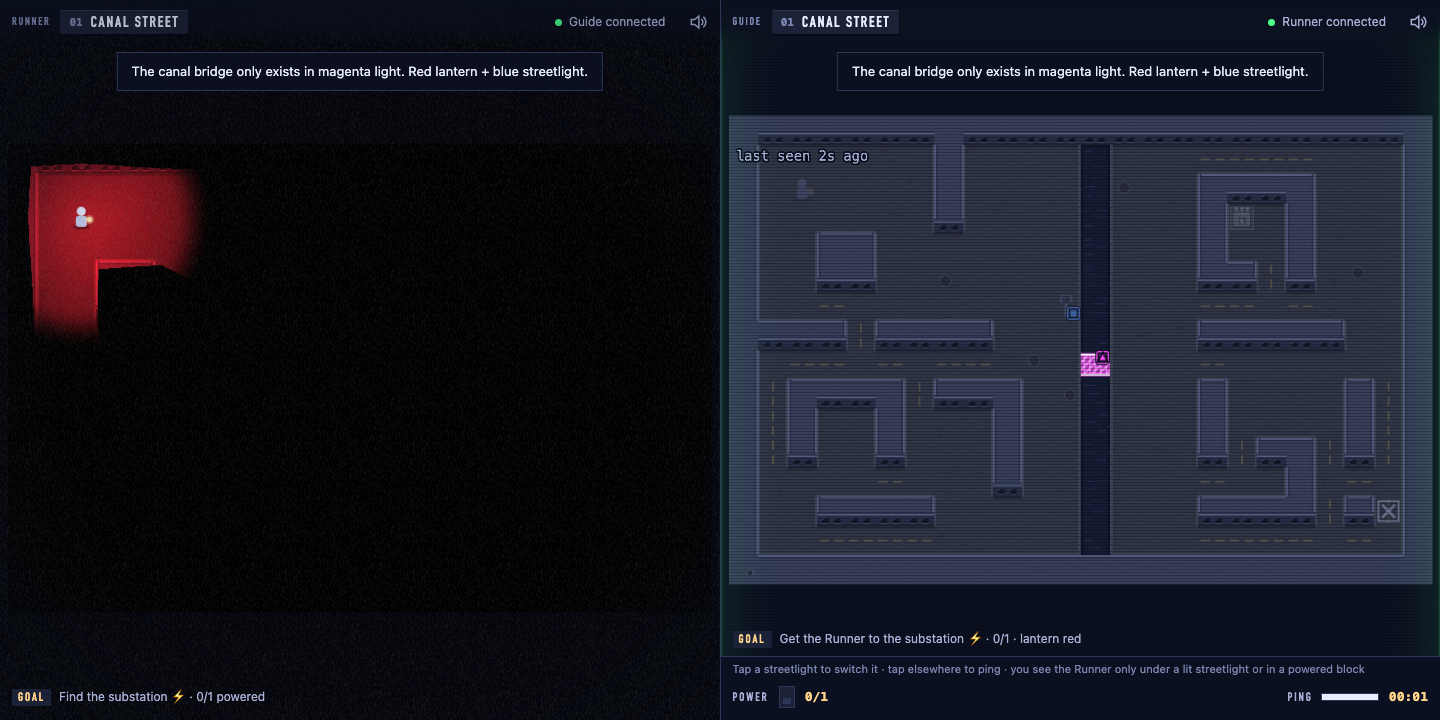
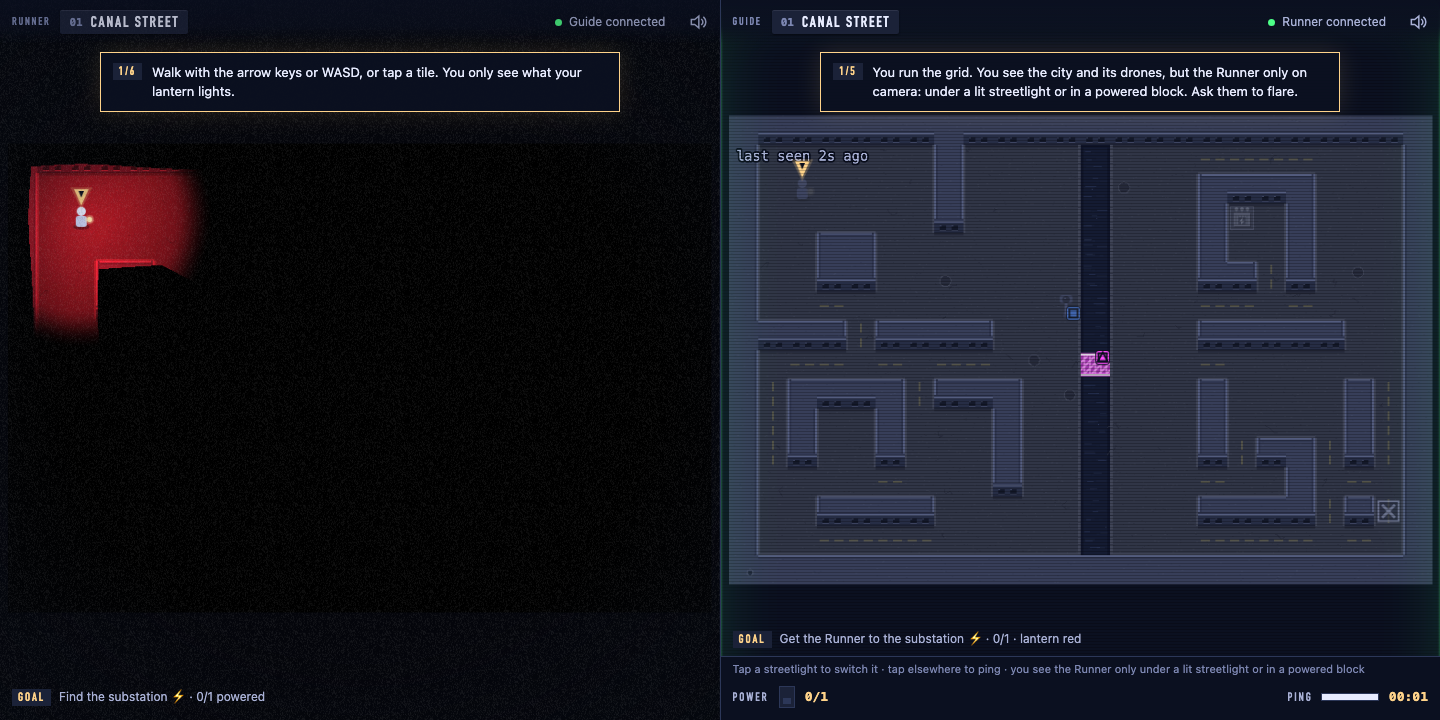
Tutorial coach for district 1 and one-off tips after it
Each role gets numbered steps with a bobbing pointer over the tile to
look at: walk, flare, pings and the magenta bridge for the runner;
cameras, ping, the blue streetlight and the substation for the guide.
Later districts show a tip the first time a filter or an unseen drone
comes up. The guide's coach only knows the last-seen position.

Assisted-By: Claude Opus 5.5

diff --git a/src/tutorial.ts b/src/tutorial.ts
@@ -1,0 +1,108 @@
+import Phaser from "phaser";
+import type { Hud } from "./hud.ts";
+import { TILE, type Level } from "./shared/level.ts";
+import type { Role, Vec } from "./shared/protocol.ts";
+
+/** What the coach needs to know each frame. Flags like `flared` are sticky for the district. */
+export type TutorCtx = {
+  level: Level;
+  runner: Vec; // the runner's tile (for the guide: where they are, even off camera)
+  moved: number;
+  flared: boolean;
+  pinged: boolean; // guide sent / runner received a ping
+  lampsOn: number;
+  powered: number;
+  bridgeOpen: boolean;
+  seen: boolean; // guide: runner on camera
+  filterInView: Vec | null;
+  unseenDrone: Vec | null;
+};
+
+type Step = { text: string; target?: (c: TutorCtx) => Vec | undefined; done: (c: TutorCtx) => boolean; when?: (c: TutorCtx) => boolean };
+
+const near = (a: Vec, b: Vec, r: number) => Math.abs(a.x - b.x) + Math.abs(a.y - b.y) <= r;
+const bridge = (c: TutorCtx) => c.level.gates.find((g) => g.kind === "bridge");
+const sub = (c: TutorCtx) => c.level.substations[0];
+
+/** District 1 walks each role through its half of the game, one step at a time. */
+const TUTORIAL: Record<Role, Step[]> = {
+  runner: [
+    { text: "Walk with the arrow keys or WASD, or tap a tile. You only see what your lantern lights.", target: (c) => c.runner, done: (c) => c.moved >= 4 },
+    { text: "Your Guide sees the whole city, but sees you only under a lit streetlight. Press Space (or tap yourself) to flare and show them where you are.", target: (c) => c.runner, done: (c) => c.flared },
+    { text: "Talk to your Guide. Their pings show up even in the dark: head where they point.", done: (c) => c.pinged || c.moved >= 14 },
+    { text: "A bridge crosses the canal here, but only in magenta light. Red lantern + blue streetlight = magenta. Ask for blue!", target: (c) => bridge(c), when: (c) => !!bridge(c) && near(c.runner, bridge(c)!, 4), done: (c) => c.bridgeOpen || c.powered > 0 },
+    { text: "Cross, then find the substation ⚡. Powering it restores the block.", target: (c) => sub(c), done: (c) => c.powered > 0 },
+    { text: "The block is back on and the exit is lit. Go!", target: (c) => c.level.exit, done: () => false },
+  ],
+  guide: [
+    { text: "You run the grid. You see the city and its drones, but the Runner only on camera: under a lit streetlight or in a powered block. Ask them to flare.", target: (c) => c.runner, done: (c) => c.flared || c.seen },
+    { text: "Tap any tile to ping it. The Runner sees pings even in the dark. Ping the bridge over the canal.", target: (c) => bridge(c), done: (c) => c.pinged },
+    { text: "Tap the blue streetlight to switch it on. Blue + the Runner's red lantern = magenta, and the bridge appears.", target: (c) => c.level.lights[0], done: (c) => c.lampsOn > 0 },
+    { text: "The streetlight is a camera too: you'll see the Runner when they're in its light. Guide them to the substation ⚡.", target: (c) => sub(c), done: (c) => c.powered > 0 },
+    { text: "Each substation gives you more power. Now talk them to the exit.", target: (c) => c.level.exit, done: () => false },
+  ],
+};
+
+/** Later districts: one-off tips that show the first time their situation comes up. */
+const HINTS: Record<Role, Step[]> = {
+  runner: [
+    { text: "Colored glass! Walk over a filter to change your lantern's color. Your Guide has to plan around it.", target: (c) => c.filterInView ?? undefined, when: (c) => !!c.filterInView, done: () => false },
+  ],
+  guide: [
+    { text: "Amber ring: a drone the Runner can't see. Light it in its own color, or ping a warning.", target: (c) => c.unseenDrone ?? undefined, when: (c) => !!c.unseenDrone, done: () => false },
+  ],
+};
+const HINT_MS = 7000;
+
+/** Shows the current coaching step in the HUD and bounces a pointer over its target tile. */
+export class Tutor {
+  private steps: Step[] = [];
+  private tutorial = false;
+  private shown?: Step;
+  private hintUntil = 0;
+  private seenHints = new Set<Step>();
+  private pointer: Phaser.GameObjects.Image;
+
+  constructor(private scene: Phaser.Scene, private hud: Hud, private role: Role) {
+    this.pointer = scene.add.image(0, 0, "pointer").setDepth(40).setVisible(false);
+  }
+
+  setDistrict(di: number) {
+    this.tutorial = di === 0;
+    this.steps = this.tutorial ? TUTORIAL[this.role] : HINTS[this.role];
+    this.show(undefined);
+  }
+
+  update(c: TutorCtx) {
+    const now = this.scene.time.now;
+    let step: Step | undefined;
+    if (this.tutorial) {
+      const i = this.steps.findIndex((s) => !s.done(c));
+      step = i >= 0 && (this.steps[i].when?.(c) ?? true) ? this.steps[i] : undefined;
+      if (step !== this.shown) this.show(step, step ? `${i + 1}/${this.steps.length}` : "");
+    } else {
+      if (this.shown && now > this.hintUntil) this.show(undefined);
+      if (!this.shown) {
+        step = this.steps.find((s) => !this.seenHints.has(s) && (s.when?.(c) ?? true));
+        if (step) { this.seenHints.add(step); this.hintUntil = now + HINT_MS; this.show(step, "Tip"); }
+      }
+      step = this.shown;
+    }
+    const t = step?.target?.(c);
+    this.pointer.setVisible(!!t);
+    if (t && (this.pointer.getData("tx") !== t.x || this.pointer.getData("ty") !== t.y)) {
+      // Re-seat the bounce over the new target tile.
+      this.pointer.setData({ tx: t.x, ty: t.y });
+      this.scene.tweens.killTweensOf(this.pointer);
+      this.pointer.setPosition(t.x * TILE + TILE / 2, t.y * TILE - 6);
+      this.scene.tweens.add({ targets: this.pointer, y: "-=8", duration: 420, yoyo: true, repeat: -1, ease: "Sine.easeInOut" });
+    }
+  }
+
+  private show(step: Step | undefined, label = "") {
+    this.shown = step;
+    this.hud.coach(step?.text ?? null, label);
+  }
+
+  destroy() { this.pointer.destroy(); }
+}

diff --git a/src/scenes/Runner.ts b/src/scenes/Runner.ts
@@ -2,6 +2,7 @@ import Phaser from "phaser";
 import { sfx } from "../audio/sfx.ts";
 import type { SceneData } from "../game.ts";
 import { Hud } from "../hud.ts";
+import { Tutor } from "../tutorial.ts";
 import { LEVELS } from "../levels/index.ts";
 import type { NetStatus, Transport } from "../net/transport.ts";
 import { LightLayer } from "../render/lights.ts";
@@ -50,6 +51,8 @@ export class RunnerScene extends Phaser.Scene {
   private lastFlare = -Infinity;
   private transitioning = false;
   private awake = false;
+  private tutor!: Tutor;
+  private coach = { moved: 0, flared: false, pinged: false };
 
   private map?: MapView;
   private lightLayer?: LightLayer;
@@ -76,6 +79,7 @@ export class RunnerScene extends Phaser.Scene {
     addPost(this, "runner");
     this.hud = new Hud(this.game.canvas.parentElement!, "runner", this.data_.room);
     this.events.once("shutdown", () => this.hud.destroy());
+    this.tutor = new Tutor(this, this.hud, "runner");
     const kb = this.input.keyboard!;
     kb.on("keydown", (e: KeyboardEvent) => {
       this.wake();
@@ -149,6 +153,8 @@ export class RunnerScene extends Phaser.Scene {
     this.fit();
     this.hud.district(i, this.level.name, this.level.intro);
     this.updateObjective();
+    this.coach = { moved: 0, flared: false, pinged: false };
+    this.tutor.setDistrict(i);
     if (this.awake) sfx.ambient(this.progress);
   }
 
@@ -193,6 +199,7 @@ export class RunnerScene extends Phaser.Scene {
       return;
     }
     this.moving = true;
+    this.coach.moved++;
     this.pos = { x: nx, y: ny };
     this.refreshField();
     this.net.send({ t: "runner_move", p: this.pos });
@@ -280,6 +287,7 @@ export class RunnerScene extends Phaser.Scene {
     if (this.transitioning) return;
     if (this.time.now - this.lastFlare < FLARE_COOLDOWN) { this.hud.toast("Flare recharging…", 900); return; }
     this.lastFlare = this.time.now;
+    this.coach.flared = true;
     this.net.send({ t: "flare", p: this.pos });
     sfx.ping();
     const ring = this.add.image(this.runner.x, this.runner.y, "ping").setDepth(30).setScale(0.3).setTint(0xffd38a).setBlendMode(Phaser.BlendModes.ADD);
@@ -304,6 +312,7 @@ export class RunnerScene extends Phaser.Scene {
       if (!this.canEnter(this.pos.x, this.pos.y)) this.respawn(this.level.at(this.pos.x, this.pos.y) === "~" ? "The bridge vanished under you." : "The door closed on you.");
     } else if (m.t === "ping") {
       this.showPing(m.p);
+      this.coach.pinged = true;
       sfx.ping();
     }
   }
@@ -371,6 +380,14 @@ export class RunnerScene extends Phaser.Scene {
       const d = this.queued.shift() ?? this.held.at(-1) ?? (this.target ? this.stepToward(this.target) : null);
       if (d) this.tryMove(d); else this.target = null;
     }
+
+    const at = (p: Vec) => this.field[p.y * this.level.w + p.x];
+    this.tutor.update({
+      level: this.level, runner: this.pos, ...this.coach, lampsOn: this.lightsOn.size, powered: this.powered.size, seen: true,
+      bridgeOpen: this.level.gates.some((g) => g.kind === "bridge" && reveals(at(g), g.color)),
+      filterInView: this.level.filters.find((f) => at(f) && f.color !== this.lantern) ?? null,
+      unseenDrone: null,
+    });
 
     const glow = this.level.substations.filter((s) => this.powered.has(s.id)).map((s) => s.block);
     const lit = sources(this.level, { x: rx, y: ry }, this.lightsOn, this.lantern);

diff --git a/src/scenes/Guide.ts b/src/scenes/Guide.ts
@@ -2,6 +2,7 @@ import Phaser from "phaser";
 import { sfx } from "../audio/sfx.ts";
 import type { SceneData } from "../game.ts";
 import { Hud } from "../hud.ts";
+import { Tutor } from "../tutorial.ts";
 import { LEVELS } from "../levels/index.ts";
 import type { NetStatus, Transport } from "../net/transport.ts";
 import { LightLayer } from "../render/lights.ts";
@@ -39,6 +40,8 @@ export class GuideScene extends Phaser.Scene {
   private lastSeenPos: Vec = { x: 0, y: 0 };
   private clockStart: number | null = null;
   private awake = false;
+  private tutor!: Tutor;
+  private coach = { pinged: false, flared: false };
 
   private map?: MapView;
   private lightLayer?: LightLayer;
@@ -58,6 +61,7 @@ export class GuideScene extends Phaser.Scene {
     addPost(this, "guide");
     this.hud = new Hud(this.game.canvas.parentElement!, "guide", this.data_.room);
     this.events.once("shutdown", () => this.hud.destroy());
+    this.tutor = new Tutor(this, this.hud, "guide");
     this.net.onMessage((m) => this.onMsg(m));
     this.net.onStatus((s) => { this.status = s; this.hud.net(s, this.peer); });
     this.net.onPeer((c) => {
@@ -107,6 +111,8 @@ export class GuideScene extends Phaser.Scene {
     this.lastSeenAt = this.time.now;
     this.lastSeenPos = { ...this.level.start };
     this.fit();
+    this.coach = { pinged: false, flared: false };
+    this.tutor.setDistrict(i);
     this.hud.district(i, this.level.name, this.level.intro);
     this.hud.hint(`Tap a streetlight to switch it · tap elsewhere to ping · you see the Runner only under a lit streetlight or in a powered block${this.level.drones.length ? " · amber ring: a drone the Runner can't see" : ""}`);
     this.redraw();
@@ -153,6 +159,7 @@ export class GuideScene extends Phaser.Scene {
     const tile = { x: Math.floor(fx), y: Math.floor(fy) };
     if (this.time.now - this.lastPing < PING_COOLDOWN) { this.hud.toast("Ping recharging…", 900); return; }
     this.lastPing = this.time.now;
+    this.coach.pinged = true;
     this.hud.ping(PING_COOLDOWN);
     this.net.send({ t: "ping", id: Math.random().toString(36).slice(2, 8), p: tile });
     if (!this.data_.local) sfx.ping();
@@ -227,6 +234,7 @@ export class GuideScene extends Phaser.Scene {
       case "flare":
         this.moveRunner(m.p, false);
         this.flareUntil = this.time.now + FLARE_MS;
+        this.coach.flared = true;
         this.showPing(m.p, 0xffd38a);
         this.hud.toast("Flare! The Runner is here.", 1600);
         if (!this.data_.local) sfx.ping();
@@ -258,6 +266,12 @@ export class GuideScene extends Phaser.Scene {
     if (!this.level) return;
     // A flare runs out, or the guide just switched the camera that was watching the runner.
     if (this.onCam !== this.seen) this.redraw();
+    const warned = [...this.drones.values()].find((d) => d.warn.visible);
+    // The coach only knows what the guide knows: where the runner was last seen.
+    this.tutor.update({
+      level: this.level, runner: this.lastSeenPos, moved: 0, ...this.coach, lampsOn: this.lightsOn.size, powered: this.powered.size,
+      seen: this.seen, bridgeOpen: false, filterInView: null, unseenDrone: warned ? warned.tile : null,
+    });
     if (!this.seen) this.ghostLabel.setText(`last seen ${Math.round((time - this.lastSeenAt) / 1000)}s ago`);
   }
 }

diff --git a/src/hud.ts b/src/hud.ts
@@ -44,6 +44,11 @@ const CSS = `
 .hud.guide .objective{bottom:72px}
 .hud .objective .lbl{flex:none;padding:3px 6px 2px;background:var(--wall);color:var(--amber)}
 .hud .objective.done .lbl{color:var(--green)}
+.hud .coach{position:absolute;left:50%;top:52px;box-sizing:border-box;width:max-content;max-width:min(calc(100% - 24px),520px);padding:10px 14px 10px 12px;
+  display:flex;gap:10px;align-items:flex-start;background:rgba(11,16,32,.95);border:1px solid var(--amber);box-shadow:0 0 24px rgba(255,211,138,.14);
+  font-size:13px;line-height:1.45;color:var(--ink);transform:translate(-50%,0);transition:opacity .3s ease,transform .4s var(--ease)}
+.hud .coach.off{opacity:0;transform:translate(-50%,-6px)}
+.hud .coach .lbl{flex:none;padding:3px 6px 2px;background:var(--wall);color:var(--amber)}
 .hud .card{position:absolute;left:50%;top:42%;box-sizing:border-box;width:max-content;max-width:calc(100% - 32px);padding:16px 26px 14px;text-align:center;
   background:rgba(11,16,32,.94);border:1px solid var(--amber);box-shadow:0 0 40px rgba(255,211,138,.18);opacity:0;transform:translate(-50%,-50%) scale(.96);
   transition:opacity .35s ease,transform .45s var(--ease)}
@@ -91,7 +96,7 @@ export class Hud {
     this.el.className = `hud ${role}`;
     this.el.innerHTML = `
       <div class="top"><span class="role"></span><span class="tape"><b class="num"></b><span class="name"></span></span><span class="sp"></span><span class="room"></span><span class="net wait" role="status">Connecting…</span><button class="mute" type="button" aria-label="Sound">${SPEAKER}</button></div>
-      <div class="intro off"></div><div class="toast" role="status"></div><div class="objective"><span class="lbl">Goal</span><span class="obj"></span></div><div class="card" aria-live="polite"><h3></h3><p></p></div>
+      <div class="intro off"></div><div class="coach off" role="status"><span class="lbl"></span><span class="say"></span></div><div class="toast" role="status"></div><div class="objective"><span class="lbl">Goal</span><span class="obj"></span></div><div class="card" aria-live="polite"><h3></h3><p></p></div>
       ${role === "guide" ? `<div class="bottom"><div class="hint"></div><div class="deck"><span class="lbl">Power</span><span class="bars"></span><span class="count"></span><span class="sp"></span><span class="ping"><span class="lbl">Ping</span><span class="meter"><i></i></span></span><span class="clock"></span></div></div>` : ""}`;
     this.q(".role").textContent = role === "runner" ? "Runner" : "Guide";
     if (room) {
@@ -160,6 +165,16 @@ export class Hud {
   objective(text: string, done = false) {
     this.q(".obj").textContent = text;
     this.q(".objective").classList.toggle("done", done);
+  }
+
+  /** Tutorial coach box under the top bar; null hides it. While it shows, the district intro stays hidden. */
+  coach(text: string | null, label = "") {
+    const el = this.q(".coach");
+    el.classList.toggle("off", !text);
+    if (!text) return;
+    this.q(".intro").classList.add("off");
+    el.querySelector(".lbl")!.textContent = label;
+    el.querySelector(".say")!.textContent = text;
   }
 
   /** A short centered card for milestones, e.g. a district restored. */

diff --git a/src/render/textures.ts b/src/render/textures.ts
@@ -89,6 +89,13 @@ export function makeTextures(scene: Phaser.Scene) {
   radial(scene, "light-falloff", 256, (t) => { const v = Math.round(falloff(t) * 255); return [v, v, v, 255]; });
   radial(scene, "soft", 64, (t) => [255, 255, 255, Math.round(Math.max(0, 1 - t) ** 2 * 255)]);
 
+  // Tutorial pointer: an amber chevron that bobs over the tile to look at.
+  tex("pointer", T, T, () => {
+    g.fillStyle(0xffd38a, 0.25).fillTriangle(4, 6, T - 4, 6, C, T - 2);
+    g.fillStyle(0xffd38a).fillTriangle(8, 8, T - 8, 8, C, T - 6);
+    g.fillStyle(0x0b1020).fillTriangle(13, 10, T - 13, 10, C, 17);
+  });
+
   for (let c = 1; c < 8; c++) {
     const col = hex(c), pale = mixWhite(col, 0.45);
     tex(`lamp-${c}`, T, T, () => lamp(g, col, true));
